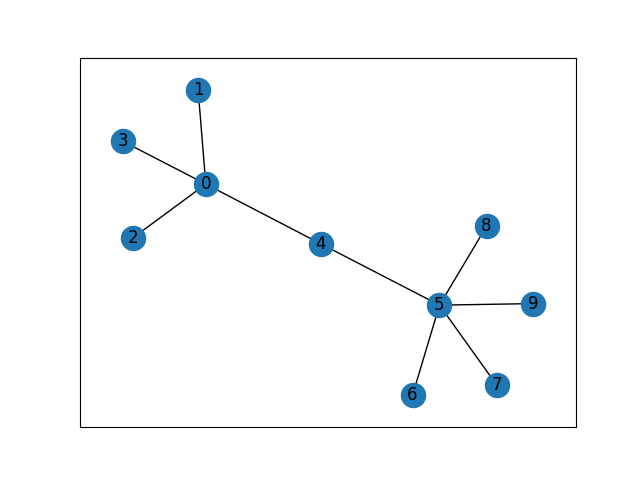
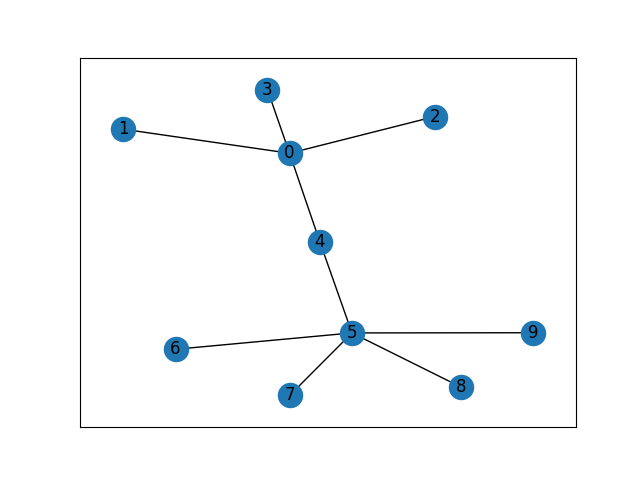
updates

diff --git a/cvf-analysis/plot_graphs.py b/cvf-analysis/plot_graphs.py
@@ -3,21 +3,27 @@ import networkx as nx
 from matplotlib import pyplot as plt
 
 graph_names = [
-    # "graph_1",
-    # "graph_2",
-    # "graph_3",
-    "graph_4",
-    "graph_5",
-    # "graph_6",
-    # "graph_6b",
-    # "graph_7",
-    # "graph_8",
+    "graph_1",
+    "graph_2",
+    "graph_3",
+    # "graph_4",
+    # "graph_5",
+    "graph_6",
+    "graph_6b",
+    "graph_7",
+    "graph_8",
 ]
+
+planar = False
 
 for gname in graph_names:
     G = nx.read_adjlist(f"graphs/{gname}.txt")
-    pos = nx.planar_layout(G)
     fig = plt.figure()
-    nx.draw_networkx(G, pos=pos, ax=fig.add_subplot())
+    if planar:
+        pos = nx.planar_layout(G)
+        nx.draw_networkx(G, pos=pos, ax=fig.add_subplot())
+    else:
+        nx.draw_networkx(G, ax=fig.add_subplot())
+
     fig.savefig(f"graph_images/{gname}.png")
     # plt.show()
